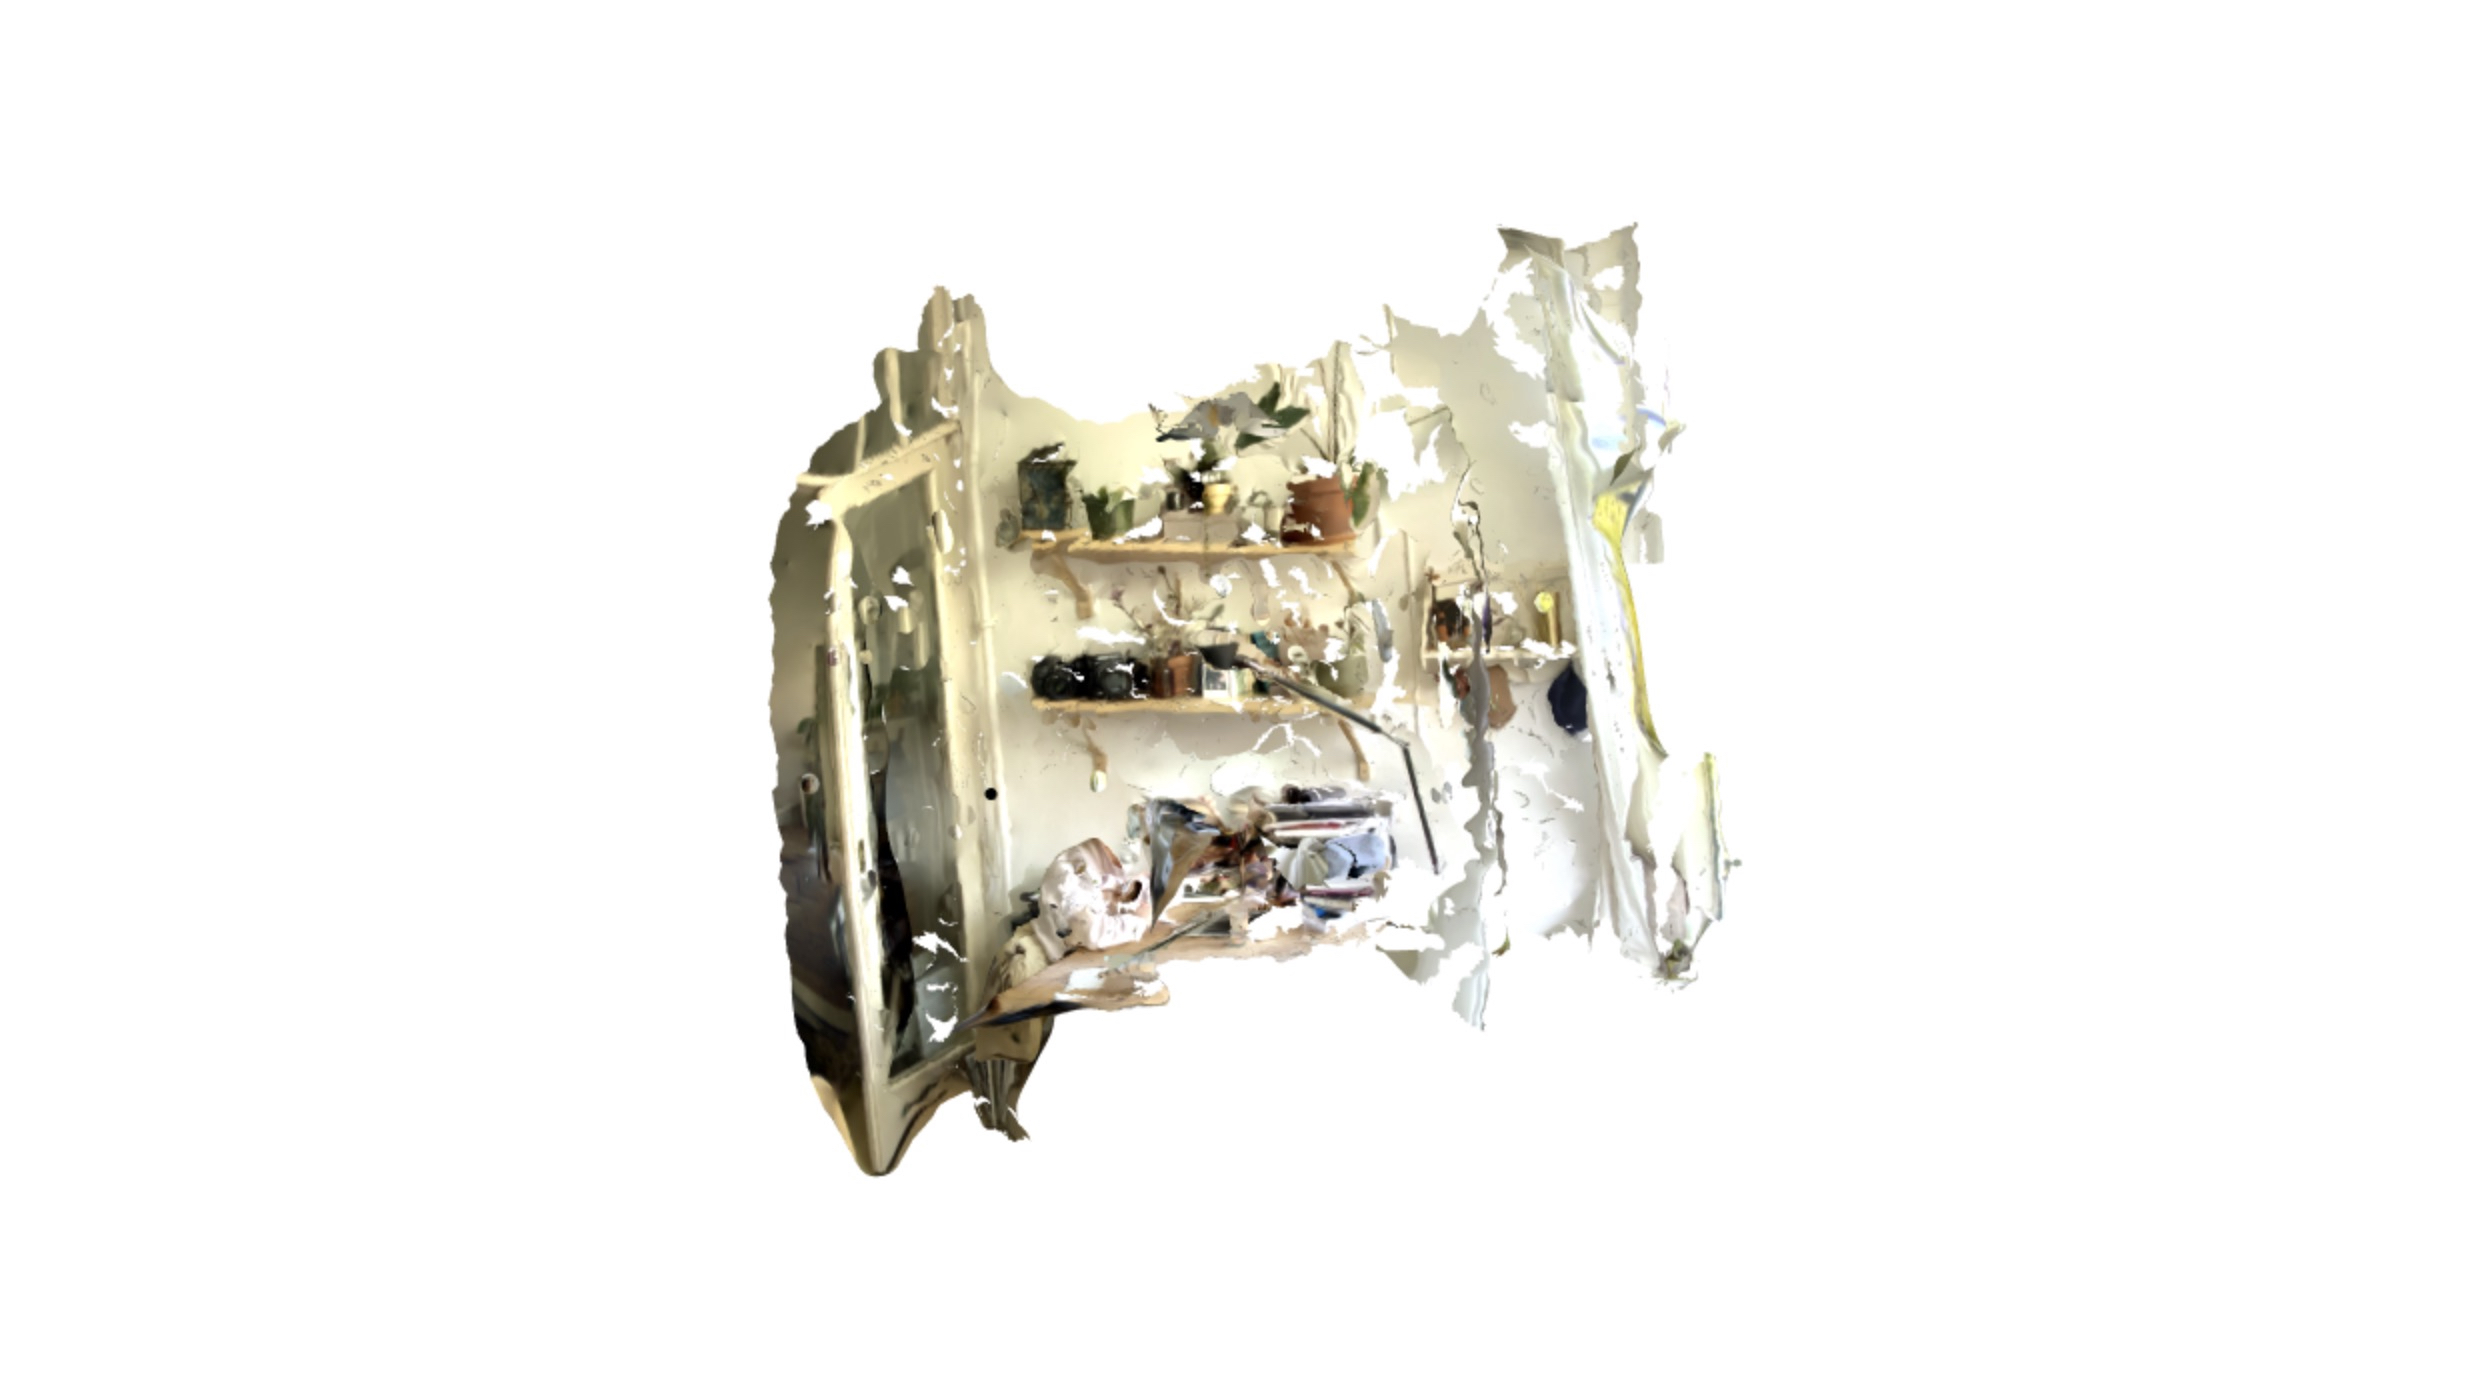
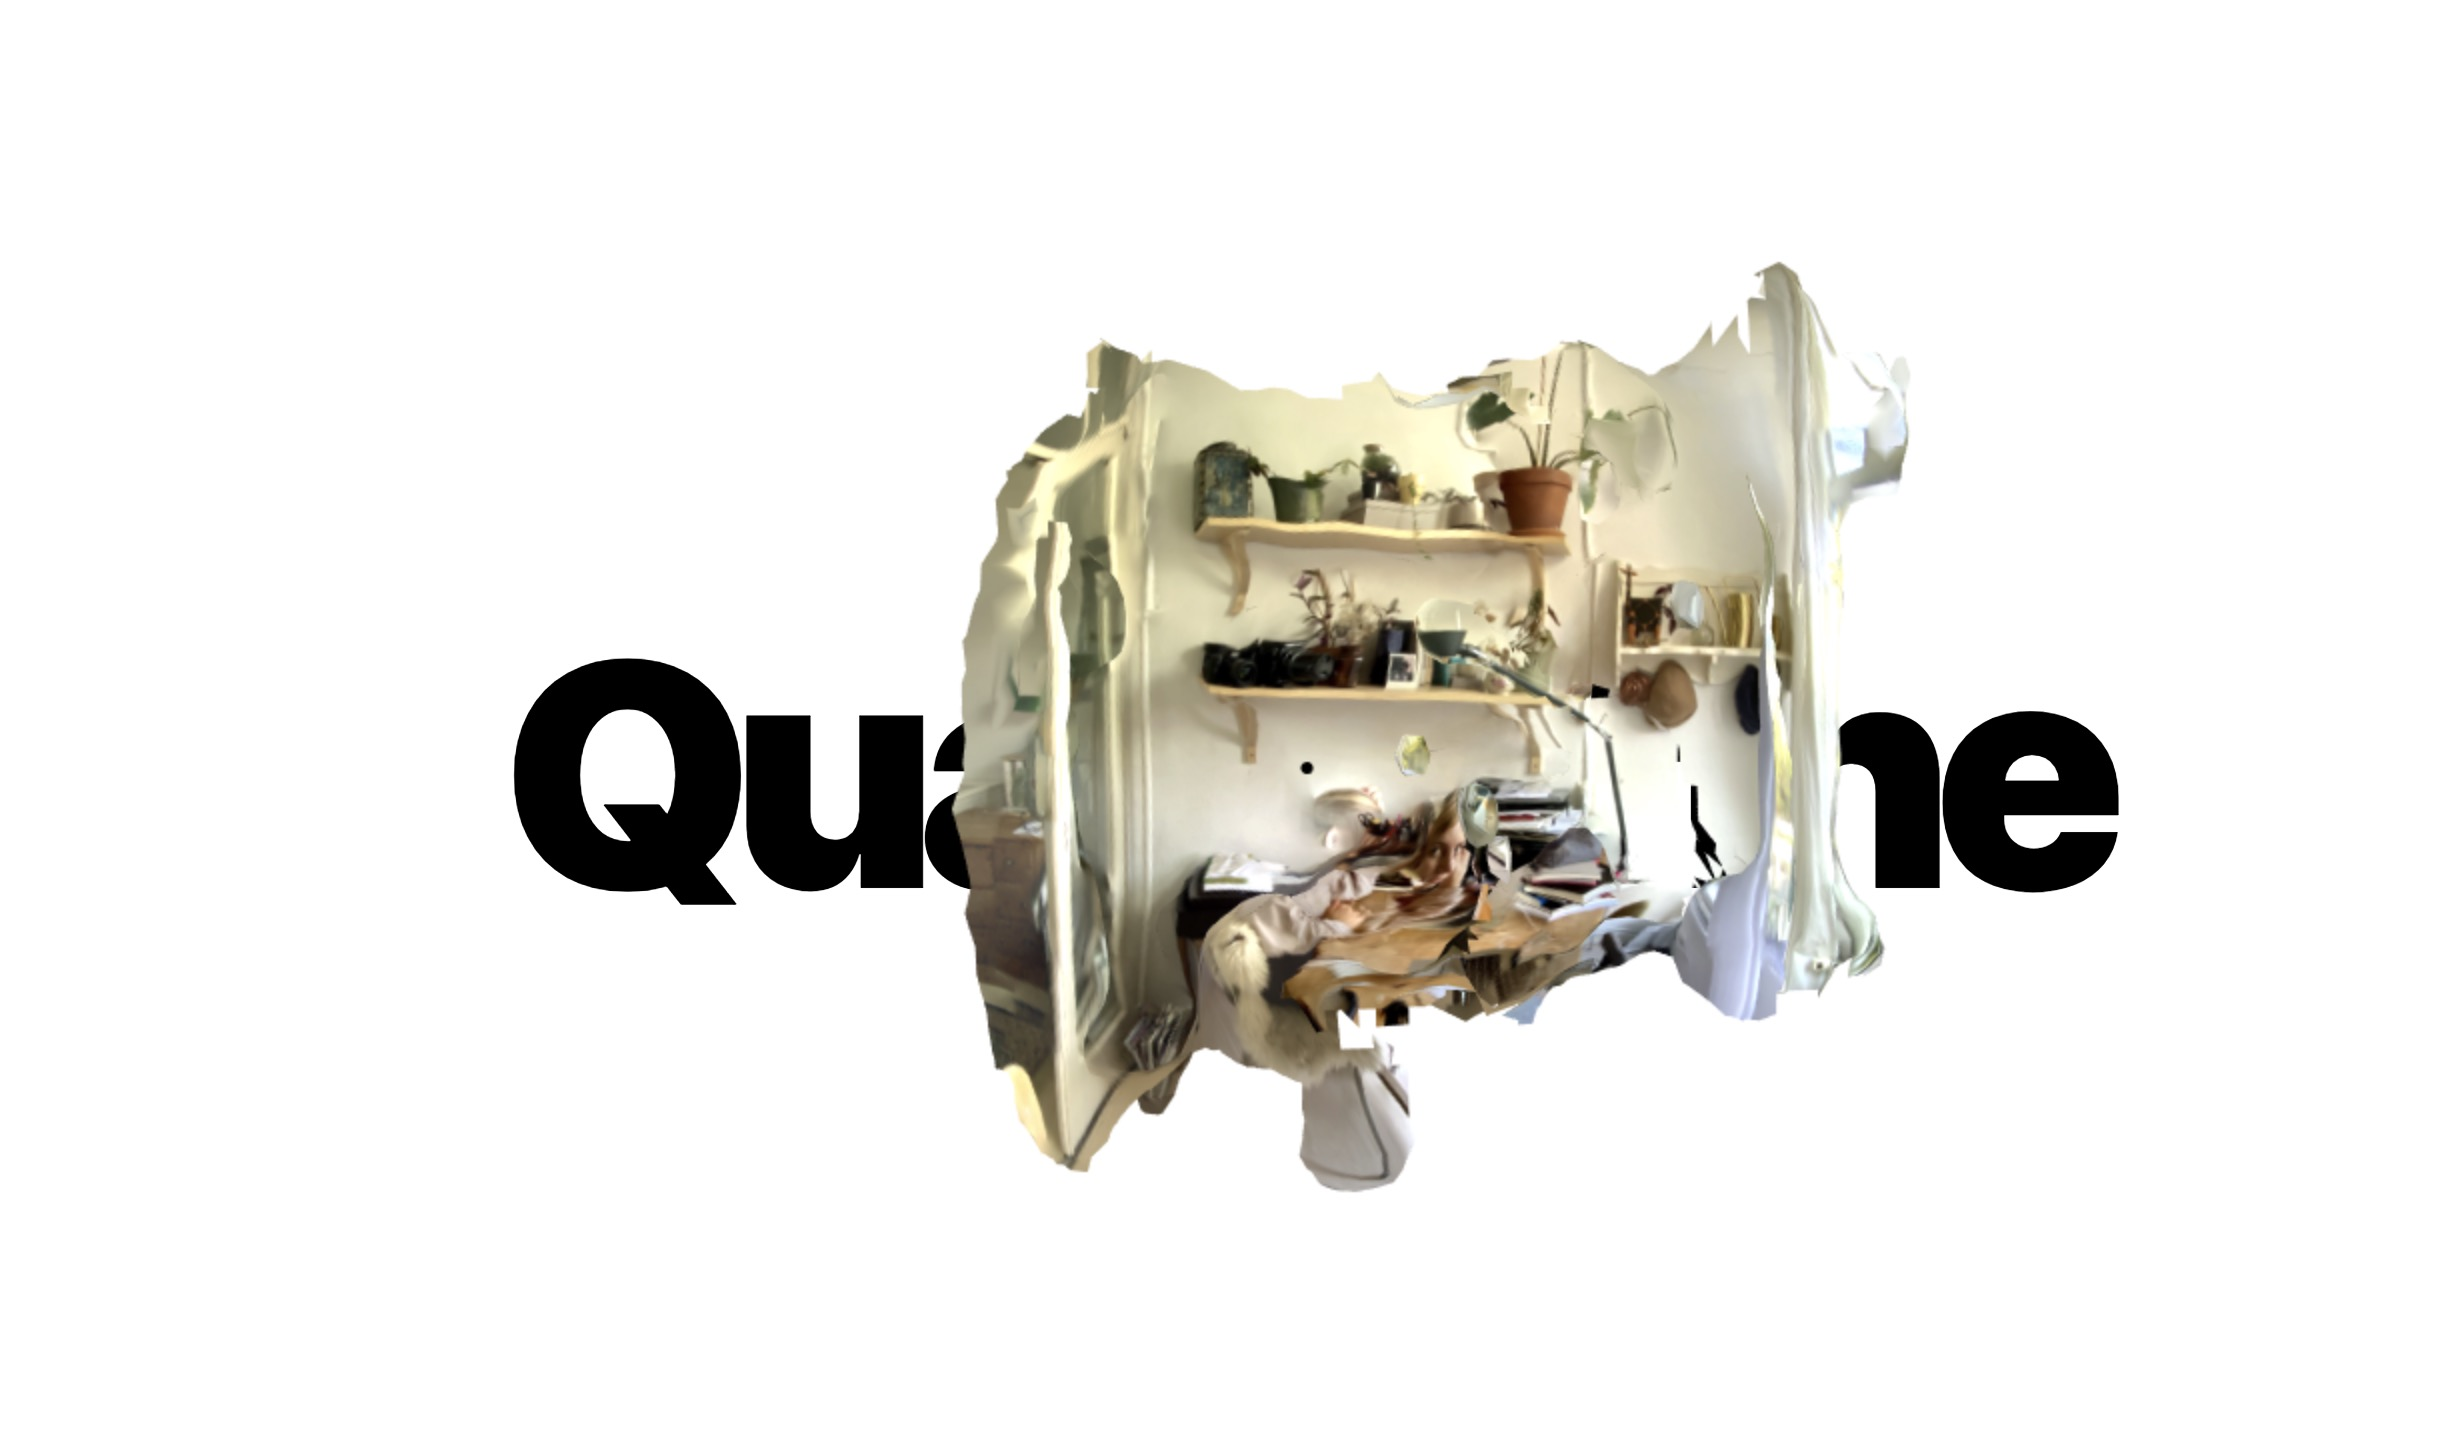
minor

Changed region(s): [[0.1855, 0.1537, 0.8657, 0.8606]]

diff --git a/public/index.html b/public/index.html
@@ -2,42 +2,12 @@
 <html lang="en">
   <head>
     <meta charset="utf-8" />
-    <link rel="icon" href="%PUBLIC_URL%/favicon.ico" />
     <meta name="viewport" content="width=device-width, initial-scale=1" />
-    <meta name="theme-color" content="#000000" />
-    <meta
-      name="description"
-      content="Web site created using create-react-app"
-    />
-    <link rel="apple-touch-icon" href="%PUBLIC_URL%/logo192.png" />
-    <!--
-      manifest.json provides metadata used when your web app is installed on a
-      user's mobile device or desktop. See https://developers.google.com/web/fundamentals/web-app-manifest/
-    -->
-    <link rel="manifest" href="%PUBLIC_URL%/manifest.json" />
-    <!--
-      Notice the use of %PUBLIC_URL% in the tags above.
-      It will be replaced with the URL of the `public` folder during the build.
-      Only files inside the `public` folder can be referenced from the HTML.
-
-      Unlike "/favicon.ico" or "favicon.ico", "%PUBLIC_URL%/favicon.ico" will
-      work correctly both with client-side routing and a non-root public URL.
-      Learn how to configure a non-root public URL by running `npm run build`.
-    -->
-    <title>React App</title>
+    <meta name="description" content="Exit Strategy" />
+    <title>Exit Strategy</title>
   </head>
   <body>
     <noscript>You need to enable JavaScript to run this app.</noscript>
     <div id="root"></div>
-    <!--
-      This HTML file is a template.
-      If you open it directly in the browser, you will see an empty page.
-
-      You can add webfonts, meta tags, or analytics to this file.
-      The build step will place the bundled scripts into the <body> tag.
-
-      To begin the development, run `npm start` or `yarn start`.
-      To create a production bundle, use `npm run build` or `yarn build`.
-    -->
   </body>
 </html>

diff --git a/src/index.js b/src/index.js
@@ -7,6 +7,7 @@ import { GLTFLoader } from 'three/examples/jsm/loaders/GLTFLoader';
 import { DRACOLoader } from 'three/examples/jsm/loaders/DRACOLoader';
 import { OrbitControls } from 'three/examples/jsm/controls/OrbitControls';
 
+import './index.css';
 import model from './models/room.glb';
 
 class App extends Component {
@@ -47,14 +48,14 @@ class App extends Component {
 
   componentDidMount() {
     var scene = new THREE.Scene();
-    scene.background = new THREE.Color('white');
     var camera = new THREE.PerspectiveCamera(
       10,
       window.innerWidth / window.innerHeight,
       1,
-      1000
+      10000
     );
-    var renderer = new THREE.WebGLRenderer({ antialias: true });
+    var renderer = new THREE.WebGLRenderer({ antialias: true, alpha: true });
+    renderer.setClearColor(0x000000, 0);
     renderer.setSize(window.innerWidth, window.innerHeight);
     renderer.outputEncoding = THREE.sRGBEncoding;
 
@@ -82,7 +83,15 @@ class App extends Component {
     animate();
   }
   render() {
-    return <div ref={(ref) => (this.mount = ref)} />;
+    return (
+      <>
+        <div className="wrapper">
+          <h1>Quarantine</h1>
+        </div>
+
+        <div ref={(ref) => (this.mount = ref)} />
+      </>
+    );
   }
 }
 

diff --git a/src/index.css b/src/index.css
@@ -1,0 +1,16 @@
+.wrapper {
+  position: fixed;
+  height: 100vh;
+  width: 100vw;
+  display: flex;
+  justify-content: center;
+  align-items: center;
+  user-select: none;
+  z-index: -1;
+  font-family: -apple-system, BlinkMacSystemFont, 'Segoe UI', Roboto, Oxygen,
+    Ubuntu, Cantarell, 'Open Sans', 'Helvetica Neue', sans-serif;
+  font-weight: 900;
+  font-size: 10rem;
+  letter-spacing: -0.5rem;
+  text-rendering: geometricPrecision;
+}
